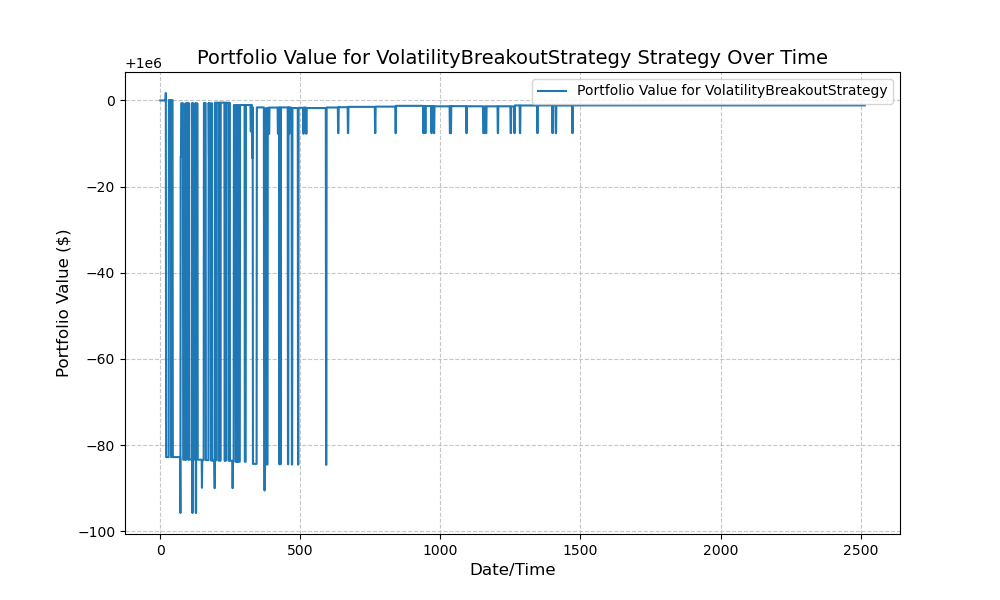
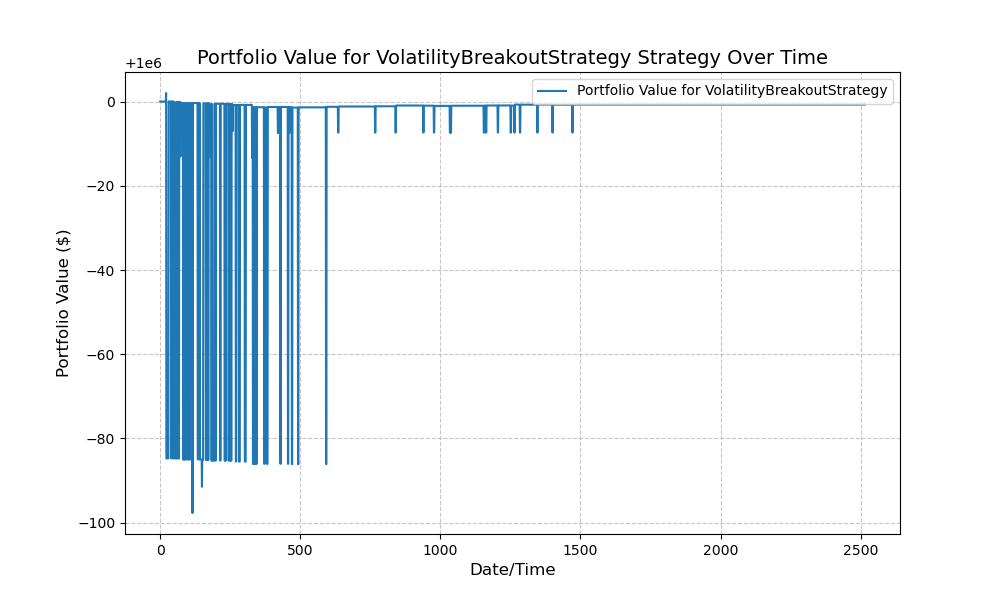
Updated strategies to be vectorized

diff --git a/MovingAverageStrategy.py b/MovingAverageStrategy.py
@@ -14,24 +14,28 @@ class MovingAverageStrategy(Strategy):
         self.positions = { t:{'position_value':0,
                               'shares':0} for t in self._symbol}
 
-
-
     def generate_signals(self):
-        sigs = pd.DataFrame(0, index=self._prices.index, columns=self._prices.columns)
-        for t in self._prices.columns:
-            s = self._prices[t].astype(float)
-            #Create the long and short moving average
-            ma_short = s.rolling(self._short_window, min_periods=1).mean()
-            ma_long = s.rolling(self._long_window, min_periods=1 ).mean()
-            #Check  if there is a possibility for a buy or sell signal if conditions met
-            up = (ma_short > ma_long)
-            down = (ma_short < ma_long) 
-            
-            sigs.loc[up,t] = 1
-            sigs.loc[down, t] = -1
+        prices = self._prices.astype(float)
+
+        # Compute short and long moving averages for all tickers at once
+        ma_short = prices.rolling(self._short_window, min_periods=1).mean()
+        ma_long = prices.rolling(self._long_window, min_periods=1).mean()
+
+        # Create signal DataFrame initialized to 0
+        sigs = pd.DataFrame(0, index=prices.index, columns=prices.columns)
+
+        # Vectorized boolean masks
+        up = ma_short > ma_long
+        down = ma_short < ma_long
+
+        # Assign signals using masks
+        sigs[up] = 1
+        sigs[down] = -1
+
         return sigs
 
-       
+
+        
 
 
 

diff --git a/MACDStrategy.py b/MACDStrategy.py
@@ -15,16 +15,16 @@ class MACDStrategy(Strategy):
                               'shares':0} for t in self._symbol}
         
     def generate_signals(self):
-         sigs = pd.DataFrame(0, index=self._prices.index, columns=self._prices.columns)
-         for t in self._prices.columns:
-            s = self._prices[t].astype(float)
-            ema_f = s.ewm(span=self._fast, adjust=False).mean()
-            ema_s = s.ewm(span=self._slow, adjust=False).mean()
-            macd = ema_f - ema_s
-            macd_sig = macd.ewm(span=self._window, adjust=False).mean()
-            up = (macd > macd_sig) 
-            dn = (macd < macd_sig) 
-            sigs.loc[up, t] = 1
-            sigs.loc[dn, t] = -1
-         return sigs
+        sigs = pd.DataFrame(0, index=self._prices.index, columns=self._prices.columns)
+         
+        s = self._prices.astype(float)
+        ema_f = s.ewm(span=self._fast, adjust=False).mean()
+        ema_s = s.ewm(span=self._slow, adjust=False).mean()
+        macd = ema_f - ema_s
+        macd_sig = macd.ewm(span=self._window, adjust=False).mean()
+        up = (macd > macd_sig) 
+        dn = (macd < macd_sig) 
+        sigs[up] = 1
+        sigs[dn] = -1
+        return sigs
              

diff --git a/RSIStrategy.py b/RSIStrategy.py
@@ -27,17 +27,17 @@ class RSIStrategy(Strategy):
 
     def generate_signals(self):
         sigs = pd.DataFrame(0, index=self._prices.index, columns=self._prices.columns)
-        for t in self._prices.columns:
-            #price for stock t
-            s = self._prices[t]
-            #calculate the rsi
-            r = rsi(s.astype(float), self.__windows)
+        
+        #price for stock t
+        s = self._prices.astype(float)
+        #calculate the rsi
+        r = rsi(s.astype(float), self.__windows)
 
-            #generate sell and buy signals
-            up = (r > self.__low) 
-            dn = (r < self.__high)
+        #generate sell and buy signals
+        up = (r > self.__low) 
+        dn = (r < self.__high)
 
-            #put them in singal dataframe
-            sigs.loc[up, t] = 1
-            sigs.loc[dn, t] = -1
+        #put them in singal dataframe
+        sigs[up] = 1
+        sigs[dn] = -1
         return sigs

diff --git a/VolatilityBreakoutStrategy.py b/VolatilityBreakoutStrategy.py
@@ -14,14 +14,12 @@ class VolatilityBreakoutStrategy(Strategy):
 
     
     def generate_signals(self):
-        sigs = pd.DataFrame(0, index=self._prices.index, columns=self._prices.columns)
-        for t in self._prices.columns:
-            s = self._prices[t].astype(float)
-            returns = s.pct_change()
-            rolling_std = s.rolling(window=self._window).std()
-
-            up = returns.abs() > rolling_std
-            dn = returns.abs() < rolling_std
-            sigs.loc[up, t] = 1
-            sigs.loc[dn, t] = -1
+        s = self._prices.astype(float)
+        returns = s.pct_change()
+        rolling_std = s.rolling(window=self._window).std()
+        sigs = pd.DataFrame(0, index=s.index, columns=s.columns)
+        up = returns > rolling_std
+        dn = returns < rolling_std
+        sigs[up] = 1
+        sigs[dn] = -1
         return sigs

diff --git a/Simulator.py b/Simulator.py
@@ -49,6 +49,7 @@ class Simulator:
                     continue
             
             strategy.portfolio_value.append(float(strategy.cash+position_value))
+
     def run_strats(self):
         names = ['MovingAverageStrategy', 'VolatilityBreakoutStrategy', 'RSIStrategy', 'MACDStrategy']
         for n,s in zip(names,self.strat):
